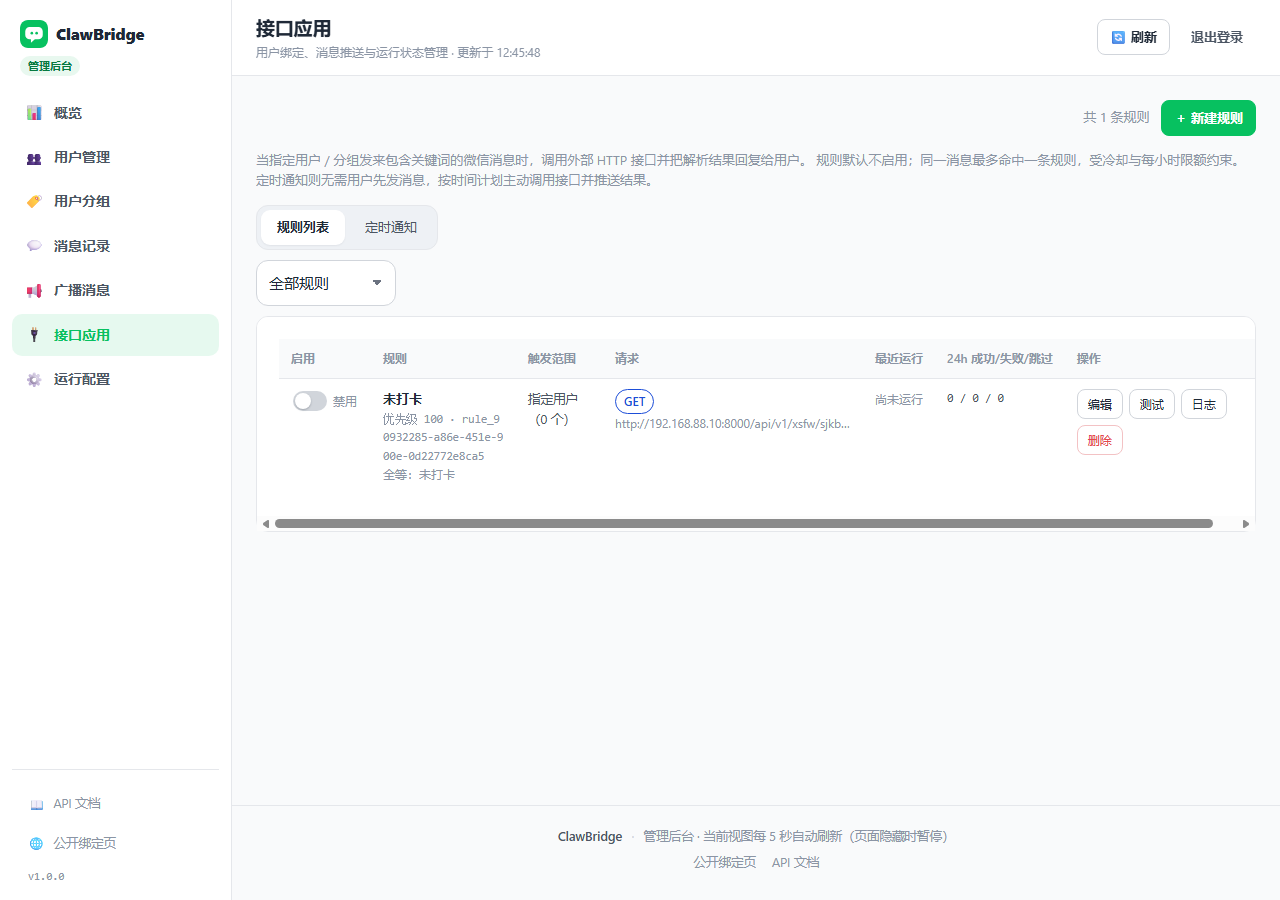
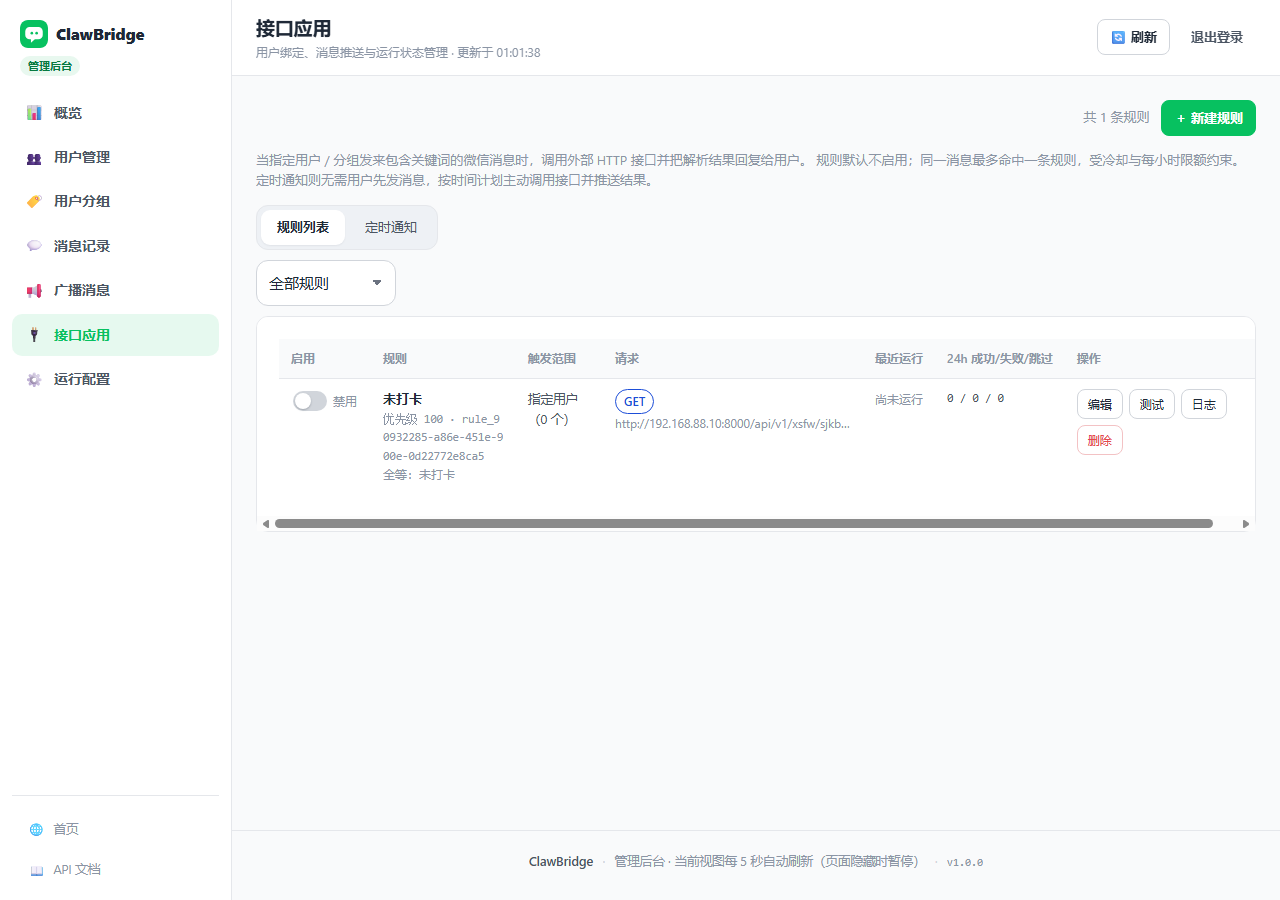
docs: API 文档接口应用拆分为规则列表与定时通知
- 目录移除「接口应用 + 子项定时通知」，改为两个独立入口：规则列表、定时通知
- 规则章节标题改为「规则列表」；定时通知从 doc-subsection 提升为独立 doc-section
- 定时通知不再依赖文档内 Tab/嵌套小节，移动端目录可直接跳转
- 前端测试补充拆分布局断言；全量 343/343

Changed region(s): [[0.4062, 0.9022, 0.75, 0.9644], [0.0, 0.8711, 0.0938, 0.9956]]

diff --git a/web/docs.html b/web/docs.html
@@ -36,8 +36,9 @@
           <a class="doc-nav-link" href="#groups-api">用户分组 API</a>
           <a class="doc-nav-link" href="#inbound-api">入站消息 API</a>
           <a class="doc-nav-link" href="#keepalive">消息保活</a>
-          <a class="doc-nav-link" href="#app-rules">接口应用</a>
-          <a class="doc-nav-link doc-nav-sub" href="#scheduled-tasks">└ 定时通知</a>
+          <a class="doc-nav-link" href="#app-rules">规则列表</a>
+
+          <a class="doc-nav-link" href="#scheduled-tasks">定时通知</a>
           <a class="doc-nav-link" href="#error-codes">错误码</a>
         </nav>
         <div class="doc-sidebar-footer">
@@ -1107,7 +1108,7 @@ done</code></pre></div>
 
         <!-- 接口应用 -->
         <section id="app-rules" class="doc-section">
-          <h2 class="doc-heading">接口应用（关键词触发 → 外部 HTTP 接口 → 解析回复）</h2>
+          <h2 class="doc-heading">规则列表（关键词触发 → 外部 HTTP 接口 → 解析回复）</h2>
           <p>
             当<strong>指定范围</strong>的微信用户发来<strong>包含关键词</strong>的消息时，ClawBridge 可调用配置的
             外部 HTTP 接口，把消息中的参数传给接口，解析接口返回并<strong>自动回复</strong>给该用户。
@@ -1298,9 +1299,17 @@ curl -X POST http://localhost:10380/api/admin/app-rules/rule_xxxxxxxx/test \
 curl "http://localhost:10380/api/admin/app-rule-logs?ruleId=rule_xxxxxxxx&status=success&limit=20&offset=0" \
   -H "Cookie: cb_session=$ADMIN_COOKIE"</code></pre></div>
 
-          <!-- 定时通知（属于接口应用的时间计划模式） -->
-          <section id="scheduled-tasks" class="doc-subsection">
-            <h3 class="doc-heading doc-heading-nested">定时通知（Scheduled Notifications）</h3>
+          </section>
+
+
+
+          <!-- 定时通知 -->
+
+
+          <section id="scheduled-tasks" class="doc-section">
+
+
+            <h2 class="doc-heading">定时通知（Scheduled Notifications）</h2>
             <p>
               定时通知按<strong>时间计划</strong>主动调用外部 HTTP 接口，把解析结果通过微信推送给<strong>指定用户或指定分组</strong>，
               无需用户先发消息；它属于「接口应用」的时间计划模式，与关键词触发（收到消息才触发）共用请求/响应/模板能力。
@@ -1476,8 +1485,6 @@ curl -X POST http://localhost:10380/api/admin/scheduled-tasks/task_xxxxxxxx/run 
 # 运行日志（任务/状态筛选 + 分页）
 curl "http://localhost:10380/api/admin/scheduled-task-logs?taskId=task_xxxxxxxx&status=success&limit=20&offset=0" \
   -H "Cookie: cb_session=$ADMIN_COOKIE"</code></pre></div>
-
-          </section>
         </section>
 
         <!-- 错误码 -->

diff --git a/tests/unit/frontend-pages.test.js b/tests/unit/frontend-pages.test.js
@@ -1116,6 +1116,10 @@ test('文档页接口应用章节与 docs/API_RULES.md 一致', async () => {
     readPage('docs.html'),
   ]);
   assert.match(html, /<section id="app-rules"/, 'docs.html 应有 #app-rules 章节');
+  assert.match(html, /href="#app-rules">规则列表</, '文档目录应有「规则列表」入口');
+  assert.match(html, /href="#scheduled-tasks">定时通知</, '文档目录应有「定时通知」独立入口');
+  assert.ok(!html.includes('href="#app-rules">接口应用'), '接口应用应拆分为规则列表和定时通知');
+  assert.match(html, /<section id="scheduled-tasks" class="doc-section"/, '定时通知应为独立章节');
   for (const token of [
     '/api/admin/app-rules',
     '/api/admin/app-rules/{id}',
